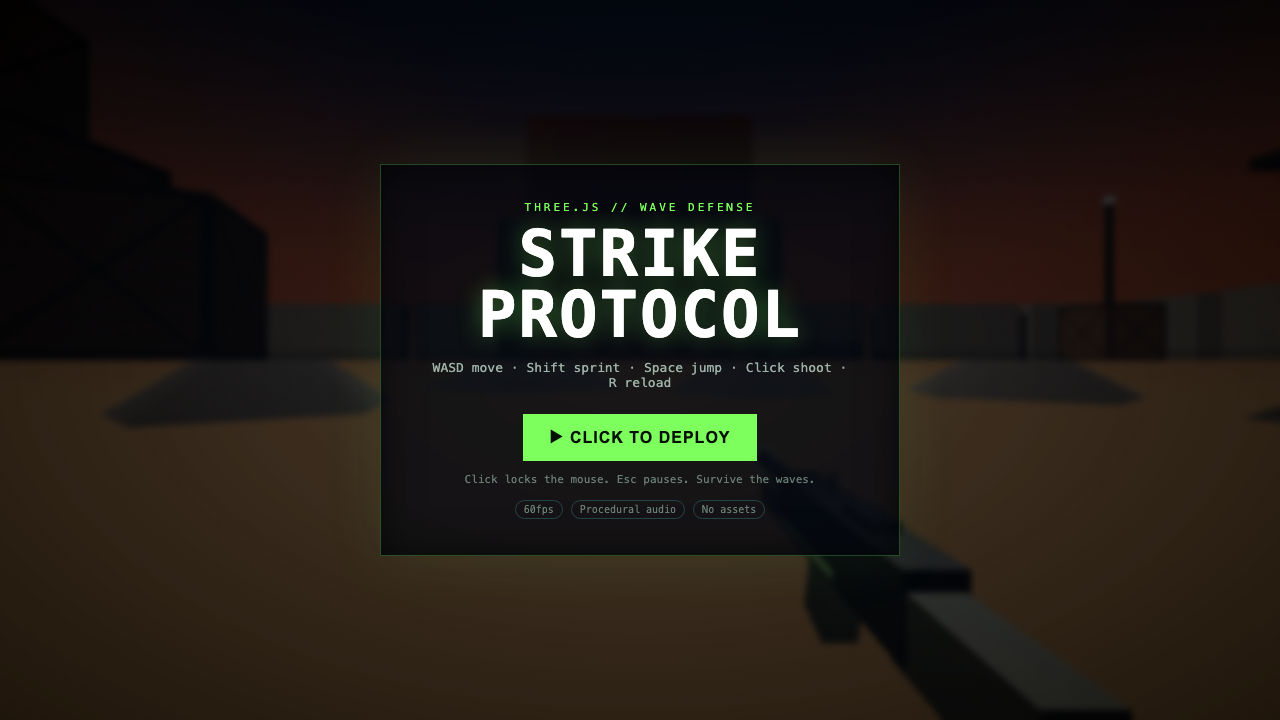
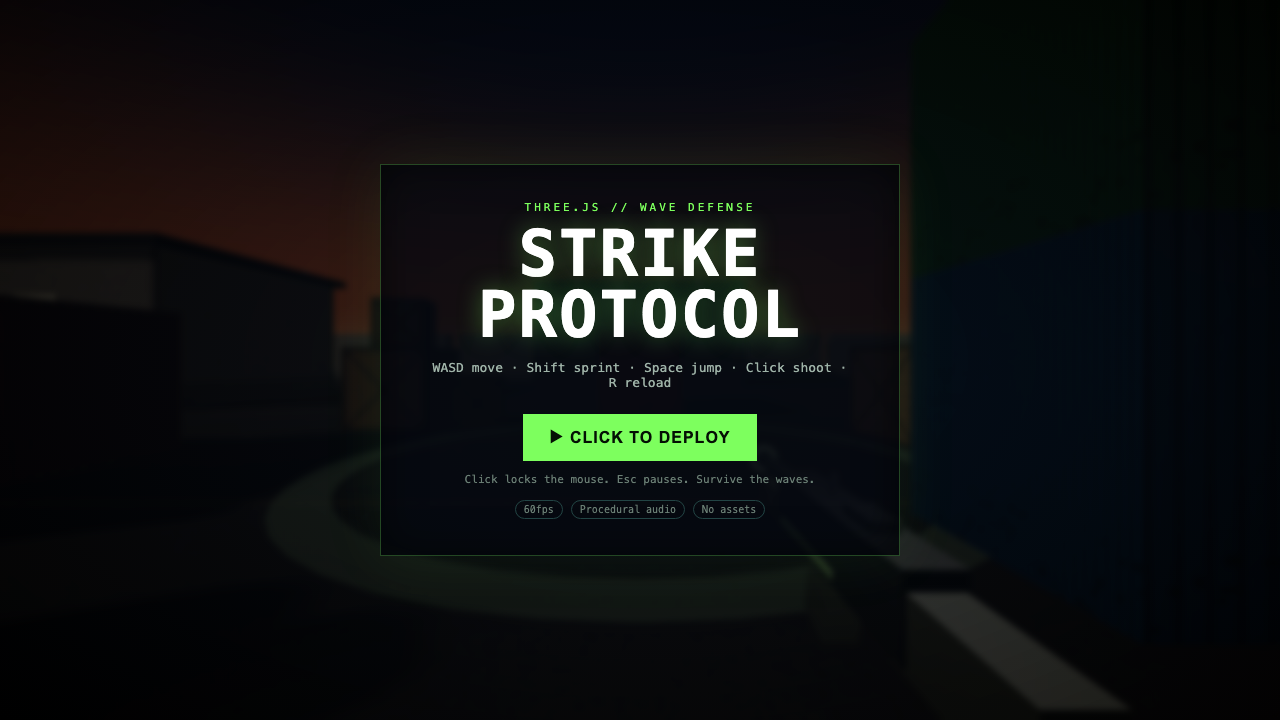
Fix frozen camera (scene.add reparent bug), sliding collision, enemy separation
- scene.add(camera) was detaching the camera from pitchObj, freezing
  yaw/pitch and all hitscan at the spawn transform; verified 0 kills
  before, scripted-aimbot kills after
- axis-separated slideMove replaces radial push-out so player and
  enemies slide around crates/containers instead of sticking
- spawn nudge + pairwise enemy separation
- darker asphalt, denser ground grain

diff --git a/project/main.js b/project/main.js
@@ -222,7 +222,8 @@ let magMesh;
 const HIP_POS=new THREE.Vector3(0.24,-0.21,-0.55), ADS_POS=new THREE.Vector3(0,-0.168,-0.38);
 gun.position.copy(HIP_POS);
 camera.add(gun);
-scene.add(camera);
+// NOTE: do NOT scene.add(camera) — it would reparent the camera out of
+// pitchObj and freeze the view. It stays under scene→yawObj→pitchObj.
 const muzzle=new THREE.PointLight(0xffc266,0,10,1.7); muzzle.position.set(0.24,-0.17,-0.95); camera.add(muzzle);
 const flash=new THREE.Mesh(new THREE.PlaneGeometry(0.34,0.34),
   new THREE.MeshBasicMaterial({color:0xffd27d,transparent:true,opacity:0,blending:THREE.AdditiveBlending,depthWrite:false}));
@@ -259,6 +260,7 @@ function spawnEnemy(waveN){
   const g=makeEnemy(hp);
   const a=Math.random()*Math.PI*2, r=13+Math.random()*7;
   g.position.set(Math.cos(a)*r,0,Math.sin(a)*r);
+  slideMove(g.position,0,0,0.5); // nudge out of any obstacle
   scene.add(g);
   const e={group:g,alive:true,hp,maxHp:hp,speed:2.1+Math.min(2.2,waveN*0.18)+Math.random()*0.8,atkCd:0,name:'HOSTILE-'+(100+enemies.length|0),dmg:8+waveN*1.5};
   enemies.push(e); enemyMeshes.push(...g.children);
@@ -364,7 +366,7 @@ function shoot(){
   flash.position.x=ADS_POS.x+(HIP_POS.x-ADS_POS.x)*(1-adsK);
   ejectShell();
   camera.getWorldDirection(camDir);
-  const sp=THREE.MathUtils.lerp(0.02,0.0035,adsK)+player.pos.length()*0+ (player.sprinting?0.012:0);
+  const sp=THREE.MathUtils.lerp(0.02,0.0035,adsK)+(player.sprinting?0.012:0);
   camDir.x+=(Math.random()-0.5)*sp; camDir.y+=(Math.random()-0.5)*sp; camDir.normalize();
   ray.set(camera.getWorldPosition(new THREE.Vector3()),camDir); ray.far=120;
   const targets=[]; for(const e of enemies){ if(e.alive)targets.push(e.group); }
@@ -402,8 +404,22 @@ function reload(){ if(player.reloading||player.reserve<=0||player.ammo===player.
     player.ammo+=take; player.reserve-=take; player.reloading=false; HUD.ammo(player.ammo,player.reserve); HUD.reloading(false); },1400); }
 
 // ============ ENEMY UPDATE / COLLISION ============
-function collide(px,pz){ for(const c of colliders){ const dx=px-c.x,dz=pz-c.z; const d=Math.hypot(dx,dz); if(d<c.r+0.6&&d>0.001){ px=c.x+dx/d*(c.r+0.6); pz=c.z+dz/d*(c.r+0.6); } }
-  const R=32; const d=Math.hypot(px,pz); if(d>R){ px*=R/d; pz*=R/d; } return [px,pz]; }
+// Axis-separated circle collision: move X, resolve on X, then Z —
+// this makes characters SLIDE around obstacles instead of sticking.
+function slideMove(p, dx, dz, r=0.55){
+  p.x+=dx;
+  for(const c of colliders){
+    const rr=c.r+r+0.01, ddx=p.x-c.x, ddz=p.z-c.z;
+    if(Math.abs(ddx)<rr&&Math.abs(ddz)<rr) p.x=c.x+(ddx>=0?rr:-rr);
+  }
+  p.z+=dz;
+  for(const c of colliders){
+    const rr=c.r+r+0.01, ddx=p.x-c.x, ddz=p.z-c.z;
+    if(Math.abs(ddx)<rr&&Math.abs(ddz)<rr) p.z=c.z+(ddz>=0?rr:-rr);
+  }
+  const R=32, d=Math.hypot(p.x,p.z);
+  if(d>R){ p.x*=R/d; p.z*=R/d; }
+}
 let stepT=0, vy=0, grounded=true;
 function updatePlayer(dt){
   player.sprinting=(keys['ShiftLeft']||keys['ShiftRight'])&&keys['KeyW']&&!adsHeld;
@@ -413,8 +429,7 @@ function updatePlayer(dt){
   let mx=(-sin*f+cos*s), mz=(-cos*f-sin*s);
   const ml=Math.hypot(mx,mz)||1; mx/=ml; mz/=ml; const moving=(f||s);
   const amt=moving?sp*dt:0;
-  let nx=yawObj.position.x+mx*amt, nz=yawObj.position.z+mz*amt;
-  [nx,nz]=collide(nx,nz); yawObj.position.x=nx; yawObj.position.z=nz;
+  slideMove(yawObj.position, mx*amt, mz*amt, 0.55);
   if(grounded&&keys['Space']){ vy=4.6; grounded=false; AudioSys.jump(); }
   vy-=12*dt; yawObj.position.y+=vy*dt;
   if(yawObj.position.y<=1.7){ yawObj.position.y=1.7; vy=0; grounded=true; }
@@ -452,11 +467,21 @@ function updateEnemies(dt){
     g.position.y=Math.abs(Math.sin(g.userData.walkT))*0.05;
     g.userData.barBg.lookAt(camWorld); g.userData.barFg.lookAt(camWorld);
     e.atkCd-=dt;
-    if(dist>1.9){ let nx=g.position.x-d.x*e.speed*dt, nz=g.position.z-d.z*e.speed*dt; [nx,nz]=collide(nx,nz); g.position.x=nx; g.position.z=nz; }
+    if(dist>1.9){ slideMove(g.position, -d.x*e.speed*dt, -d.z*e.speed*dt, 0.45); }
     else if(e.atkCd<=0&&Game.state==='playing'&&!player.dead){ e.atkCd=0.9;
       player.hp-=e.dmg; player.lastHurt=performance.now()/1000; HUD.health(player.hp,player.maxHp); HUD.damage(0.85); AudioSys.hurt();
-      g.position.addScaledVector(d,-0.4);
+      g.position.addScaledVector(d,-0.4); slideMove(g.position,0,0,0.45);
       if(player.hp<=0){ player.hp=0; player.dead=true; GameSys.gameOver(); } }
+  }
+  // separation: keep enemies from stacking into a conga line
+  for(let i=0;i<enemies.length;i++){ const a=enemies[i]; if(!a.alive) continue;
+    for(let j=i+1;j<enemies.length;j++){ const b=enemies[j]; if(!b.alive) continue;
+      const dx=b.group.position.x-a.group.position.x, dz=b.group.position.z-a.group.position.z;
+      const d2=dx*dx+dz*dz;
+      if(d2<1.0&&d2>1e-6){ const d=Math.sqrt(d2), push=(1.0-d)*0.5/d;
+        a.group.position.x-=dx*push; a.group.position.z-=dz*push;
+        b.group.position.x+=dx*push; b.group.position.z+=dz*push; }
+    }
   }
 }
 
